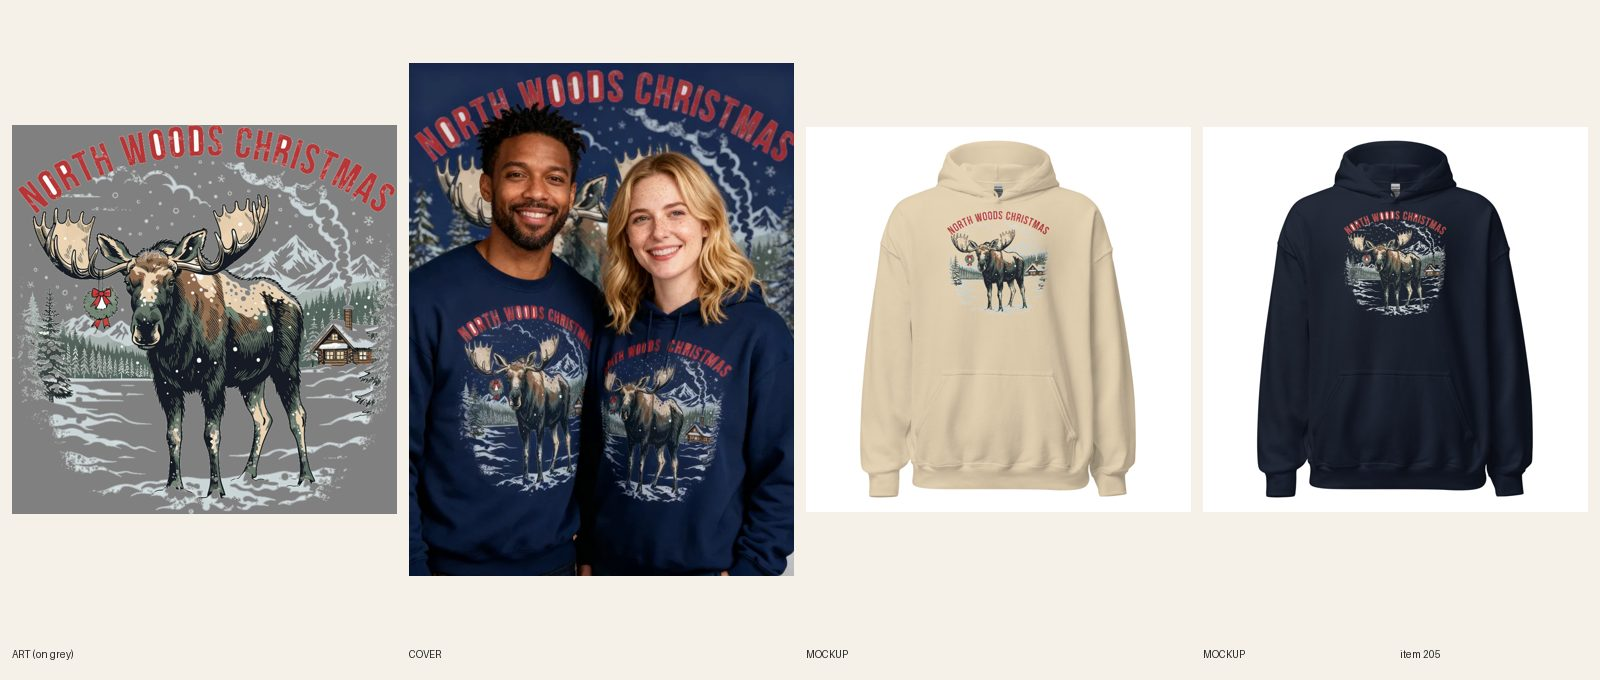
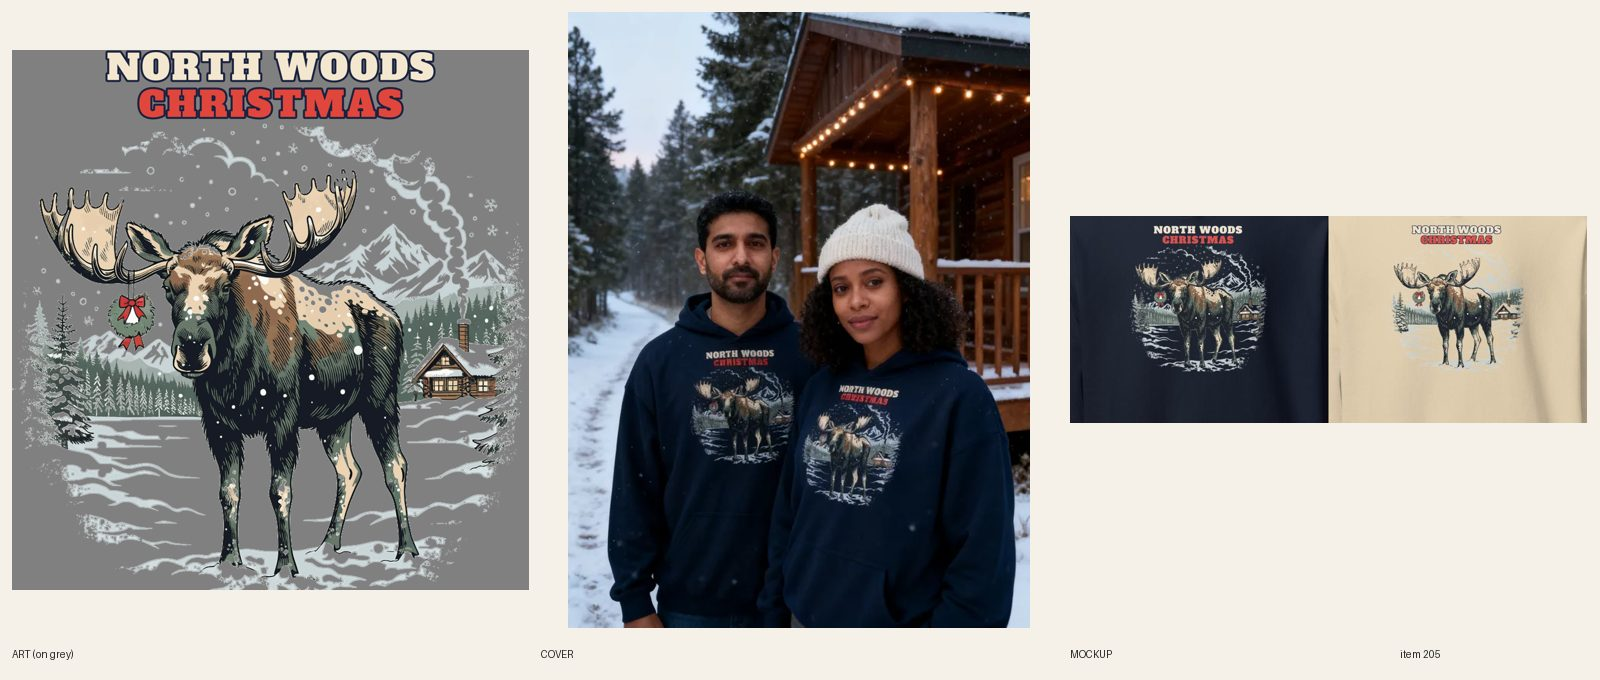
[A] 205 moose hoodie redo built (resync running)

diff --git a/src/data/covers.ts b/src/data/covers.ts
@@ -205,7 +205,7 @@ export const covers: Record<string, { src: string; alt: string }> = {
   'womens-christmas-christmas-dogs-hoodie': { src: '/covers/womens-christmas-christmas-dogs-hoodie.webp', alt: 'Woman with short blonde hair and tortoiseshell glasses smiling in a snowy park at dusk under string lights, wearing the navy Christmas Dogs Merry Woofmas hoodie' },
   'womens-christmas-cardinal-christmas-hoodie': { src: '/covers/womens-christmas-cardinal-christmas-hoodie.webp', alt: 'Woman with curly hair, smiling, hands in the pocket, wearing the sand Cardinal Christmas hoodie' },
   'womens-christmas-winter-woods-fox-hoodie': { src: '/covers/womens-christmas-winter-woods-fox-hoodie.webp', alt: 'Woman with her hair in a bun and her hands at the hood, wearing the navy Winter Woods Fox hoodie' },
-  'unisex-christmas-north-woods-moose-hoodie': { src: '/covers/unisex-christmas-north-woods-moose-hoodie.webp', alt: 'Man and woman standing together in navy hoodies printed with a bull moose and a log cabin under NORTH WOODS CHRISTMAS lettering, smiling' },
+  'unisex-christmas-north-woods-moose-hoodie': { src: '/covers/unisex-christmas-north-woods-moose-hoodie.webp', alt: 'Man and woman side by side on a snowy pine trail by a log cabin porch wearing navy North Woods Moose hoodies with the hoods down' },
   'womens-christmas-christmas-cats-hoodie': { src: '/covers/womens-christmas-christmas-cats-hoodie.webp', alt: 'Woman with curly hair, smiling, hands in the pocket, wearing the sand Christmas Cats hoodie with the hood down' },
   'womens-christmas-vintage-snowman-hoodie': { src: '/covers/womens-christmas-vintage-snowman-hoodie.webp', alt: 'Woman with dark hair, smiling and the hood up, wearing the navy Vintage Snowman Christmas hoodie' },
   'womens-christmas-golf-hoodie': { src: '/covers/womens-christmas-golf-hoodie.webp', alt: 'Woman in her late 40s with a silver-blonde bob in a navy Christmas Golf hoodie on a frosty clubhouse porch with a golf bag and wreath' },

diff --git a/docs/cohesion-audit.md b/docs/cohesion-audit.md
@@ -1,79 +1,13 @@
-# Cohesion audit — 2026-10-17 18:41 UTC
+# Cohesion audit — 2026-10-17 19:30 UTC
 
-341 live products checked · **33 errors** · 16 warnings · 49 products with findings
-# Cohesion audit — 2026-10-17 18:42 UTC
-
-341 live products checked · **29 errors** · 16 warnings · 45 products with findings
+347 live products checked · **8 errors** · 16 warnings · 24 products with findings
 
 ERROR = a shopper or Google would see something wrong (wrong person, wrong garment, wrong grid, wrong price, missing photos, keyword collision). Fix before anything new ships. WARN = polish.
 
 ## Errors by type
-- 29 × Price ./. — should be ./- on every variant.
+- 8 × Price ./. — should be ./- on every variant.
 
 ## By product (errors first)
-### Men's Hunting – Deer Diary Tee `mens-hunting-deer-diary-graphic-tee`
-- **ERROR** Price 24.99/29.99 (price/compare-at) — should be 24.99/- on every variant. → Set every variant to price 24.99, no compare-at.
-
-### Women's Football Mom – Down, Set, Snacks Tee `womens-football-mom-down-set-snacks-graphic-tee`
-- **ERROR** Price 24.99/29.99 (price/compare-at) — should be 24.99/- on every variant. → Set every variant to price 24.99, no compare-at.
-
-### Men's Fishing – Fisher of Men (Mostly Bass) Tee `mens-fishing-fisher-of-men-graphic-tee`
-- **ERROR** Price 24.99/29.99 (price/compare-at) — should be 24.99/- on every variant. → Set every variant to price 24.99, no compare-at.
-
-### Unisex Anime – Slurp Responsibly Tee `unisex-anime-slurp-responsibly-graphic-tee`
-- **ERROR** Price 24.99/29.99 (price/compare-at) — should be 24.99/- on every variant. → Set every variant to price 24.99, no compare-at.
-
-### Men's Fishing – Cheaper Than Therapy (Barely) Tee `mens-fishing-cheaper-than-therapy-graphic-tee`
-- **ERROR** Price 24.99/29.99 (price/compare-at) — should be 24.99/- on every variant. → Set every variant to price 24.99, no compare-at.
-
-### Women's Cropped – Matcha Made in Heaven Tee `womens-cropped-matcha-made-in-heaven-graphic-tee`
-- **ERROR** Price 24.99/29.99 (price/compare-at) — should be 24.99/- on every variant. → Set every variant to price 24.99, no compare-at.
-
-### Women's Y2K – Low Battery, High Standards Tee `womens-y2k-low-battery-high-standards-graphic-tee`
-- **ERROR** Price 24.99/29.99 (price/compare-at) — should be 24.99/- on every variant. → Set every variant to price 24.99, no compare-at.
-
-### Unisex Anime – Mecha Mondays Tee `unisex-anime-mecha-mondays-graphic-tee`
-- **ERROR** Price 24.99/29.99 (price/compare-at) — should be 24.99/- on every variant. → Set every variant to price 24.99, no compare-at.
-
-### Women's Baseball Mom – Bases Loaded, Mom Exhausted Tee `womens-baseball-mom-bases-loaded-graphic-tee`
-- **ERROR** Price 24.99/29.99 (price/compare-at) — should be 24.99/- on every variant. → Set every variant to price 24.99, no compare-at.
-
-### Women's Soccer Mom – Official Orange Slice Supplier Tee `womens-soccer-mom-orange-slice-supplier-graphic-tee`
-- **ERROR** Price 24.99/29.99 (price/compare-at) — should be 24.99/- on every variant. → Set every variant to price 24.99, no compare-at.
-
-### Women's Christian – Casserole Ministry Tee `womens-christian-casserole-ministry-graphic-tee`
-- **ERROR** Price 24.99/29.99 (price/compare-at) — should be 24.99/- on every variant. → Set every variant to price 24.99, no compare-at.
-
-### Women's Y2K – Still Loading Since 1999 Tee `womens-y2k-still-loading-graphic-tee`
-- **ERROR** Price 24.99/29.99 (price/compare-at) — should be 24.99/- on every variant. → Set every variant to price 24.99, no compare-at.
-
-### Women's Y2K – Hot Mess Express Tee `womens-y2k-hot-mess-express-graphic-tee`
-- **ERROR** Price 24.99/29.99 (price/compare-at) — should be 24.99/- on every variant. → Set every variant to price 24.99, no compare-at.
-
-### Women's Cropped – Espresso Yourself Tee `womens-cropped-espresso-yourself-graphic-tee`
-- **ERROR** Price 24.99/29.99 (price/compare-at) — should be 24.99/- on every variant. → Set every variant to price 24.99, no compare-at.
-
-### Men's Hunting – Professional Tree Sitter Tee `mens-hunting-professional-tree-sitter-graphic-tee`
-- **ERROR** Price 24.99/29.99 (price/compare-at) — should be 24.99/- on every variant. → Set every variant to price 24.99, no compare-at.
-
-### Women's Nurse – Don't Say the Q Word Tee `womens-nurse-dont-say-the-q-word-graphic-tee`
-- **ERROR** Price 24.99/29.99 (price/compare-at) — should be 24.99/- on every variant. → Set every variant to price 24.99, no compare-at.
-
-### Unisex Anime – Destroyer of Cities, Lover of Naps Tee `unisex-anime-kaiju-naps-graphic-tee`
-- **ERROR** Price 24.99/29.99 (price/compare-at) — should be 24.99/- on every variant. → Set every variant to price 24.99, no compare-at.
-
-### Men's Hunting – Long Beard Short Temper Camo Hoodie `mens-hunting-long-beard-short-temper-camo-hoodie`
-- **ERROR** Price 49.99/54.99 (price/compare-at) — should be 49.99/- on every variant. → Set every variant to price 49.99, no compare-at.
-
-### Men's Hunting – I'm Not Yelling I'm Bugling Camo Hoodie `mens-hunting-im-not-yelling-im-bugling-camo-hoodie`
-- **ERROR** Price 49.99/54.99 (price/compare-at) — should be 49.99/- on every variant. → Set every variant to price 49.99, no compare-at.
-
-### Men's Hunting – Fluent in Honk Camo Hoodie `mens-hunting-fluent-in-honk-camo-hoodie`
-- **ERROR** Price 49.99/54.99 (price/compare-at) — should be 49.99/- on every variant. → Set every variant to price 49.99, no compare-at.
-
-### Men's Hunting – Full Draw Zero Deer Camo Hoodie `mens-hunting-full-draw-zero-deer-camo-hoodie`
-- **ERROR** Price 49.99/54.99 (price/compare-at) — should be 49.99/- on every variant. → Set every variant to price 49.99, no compare-at.
-
 ### Women's Hunting – Ducks in a Row Camo Hoodie `womens-hunting-ducks-in-a-row-camo-hoodie`
 - **ERROR** Price 49.99/54.99 (price/compare-at) — should be 49.99/- on every variant. → Set every variant to price 49.99, no compare-at.
 

diff --git a/docs/pipeline/205-christmas-hoodie-north-woods-moose.md b/docs/pipeline/205-christmas-hoodie-north-woods-moose.md
@@ -1,4 +1,4 @@
-status: REDO
+status: BUILDING [A] 2026-10-17 19:40 UTC
 lane: A
 type: twin
 id: 205
@@ -23,3 +23,4 @@ handle: unisex-christmas-north-woods-moose-hoodie
 - 2026-10-16 23:19 UTC director: REDO (product stays DRAFT). Notes:
   1. R6.4 / R6.8 / R6.9: the cover background is a giant copy of the print (backdrop, not a place), and the man's top shows no hood. One new cover: a real north-woods scene (snowy cabin porch or pine trail), man and woman both in Navy pullover hoodies with visible hoods, hands empty, product's Navy mockup as --design.
   2. R3.7.6 / R6.2: NORTH WOODS CHRISTMAS is a condensed distressed font with even spacing. Re-letter it by hand (one Recraft lettering-only generation, composed in print-prep) and knock out the white highlights inside the letters on Navy (R5.3.8). Resync, new mockups.
+- 2026-10-17 20:00 UTC builder [A] REDO 205: (1) Lettering: erased the arched NORTH WOODS CHRISTMAS (red-mask erase + zone clean, clouds kept) and re-set it as two lines in Alfa Slab One (cream with navy outline, red CHRISTMAS), no typeset sans/condensed font, no letter counters. New file 3600x3761 (Printful 1088437680), FW 1500 TOP 0 (about 10.4 in tall, bottom 60 px of snow trimmed so it clears the pouch). Checked both Navy and Sand mockups at phone size: every word reads (outline added after Sand test 1 lost the cream line). (2) Cover: new fal Seedream cover, man + woman (registry 801/802) in Navy hoodies with visible hoods, hands empty, snowy pine trail by a cabin porch, Navy mockup as --design; 1 attempt (woman's CHRISTMAS slightly soft on the cover; director to judge). (3) New mockups attached (Sand/Navy front + Sand back) via fileUpdate; description art line fixed, FAQ rewritten to 5 x 40-60 words with Dec 8 order-by; tags graphic-hoodies-for-men/-women added. Printful resync queued (12 variants, FORCE). fal spend: 1 image about $0.03. Audit PASS.

diff --git a/docs/model-registry.md b/docs/model-registry.md
@@ -581,3 +581,6 @@ Rows 11–43 were re-pointed on 2026-10-08 when the briefs were rewritten from d
 | 692 | Ethiopian-American woman, late 30s, short curly natural hair, small gold hoops, warm medium build | USED 2026-10-16 — #482 Promised to Behave Tee cover (seedream, 1 attempt) |
 | 693 | Samoan-American man, early 30s, short curly black hair, trimmed beard, muscular build | USED 2026-10-16 — #483 Sisyphus Tee cover (seedream, 2 attempts: towel covered SISYPHUS on #1) |
 | 694 | white man, late 40s, close-cropped grey hair and a short grey beard, broad build | USED 2026-10-17 — #484 Sisyphus crewneck cover (try 1, image 1 of 1) |
+| 694 | white man, late 40s, close-cropped grey hair and a short grey beard, broad build | RESERVED — #484 Sisyphus crewneck cover |
+| 801 | Pakistani-American man, early 40s, short dark hair, trimmed beard | USED 2026-10-17 — #205 North Woods Moose hoodie cover redo (with #802, seedream, 1 attempt; hoods visible, woman's CHRISTMAS slightly soft) |
+| 802 | Black woman, mid 30s, natural curls under a cream knit beanie, small gold hoops | USED 2026-10-17 — #205 North Woods Moose hoodie cover redo (with #801) |
